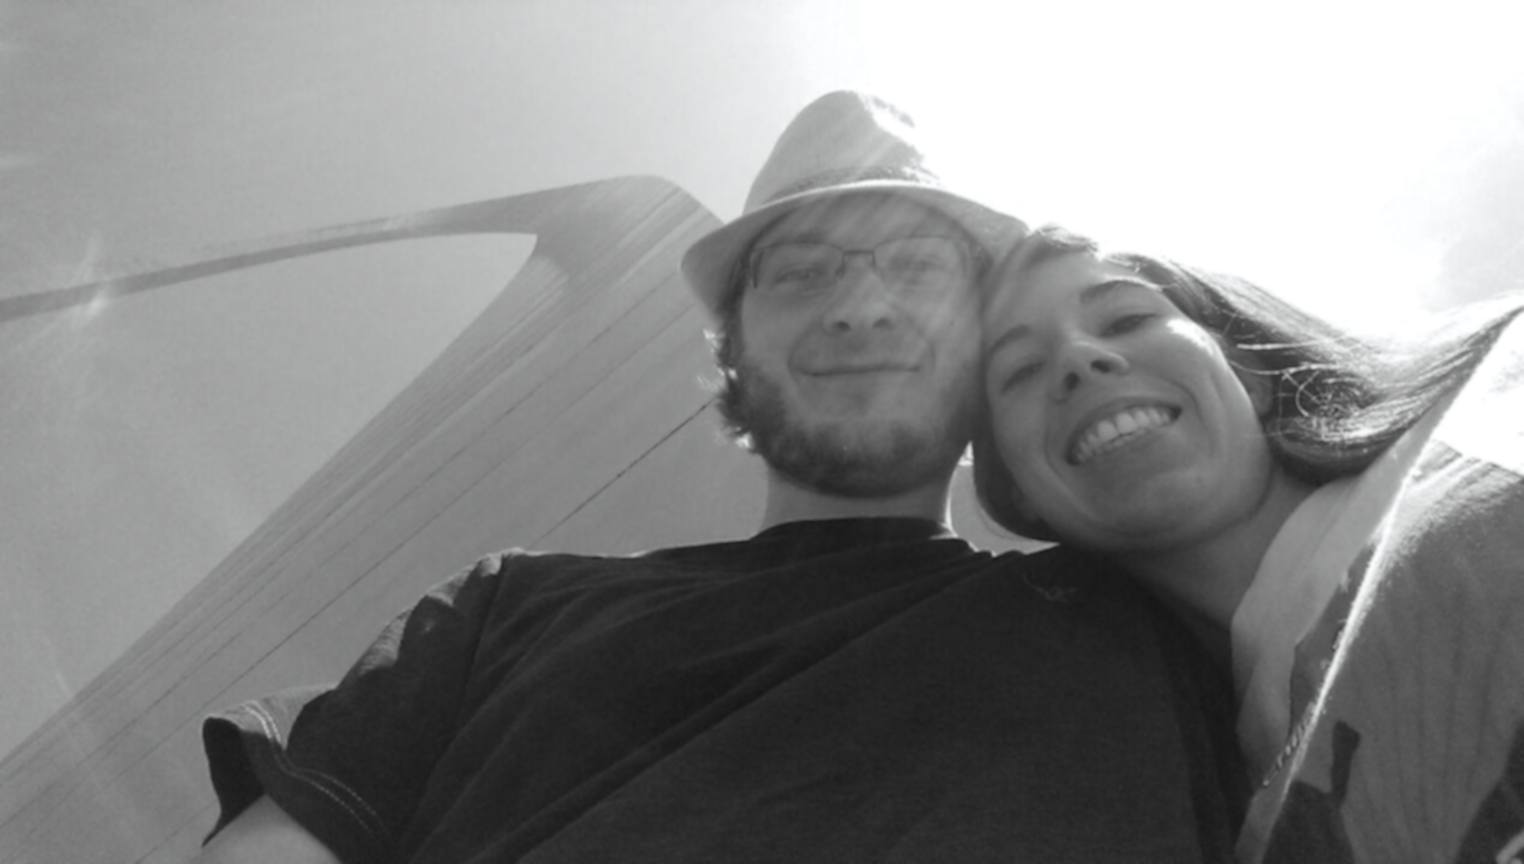
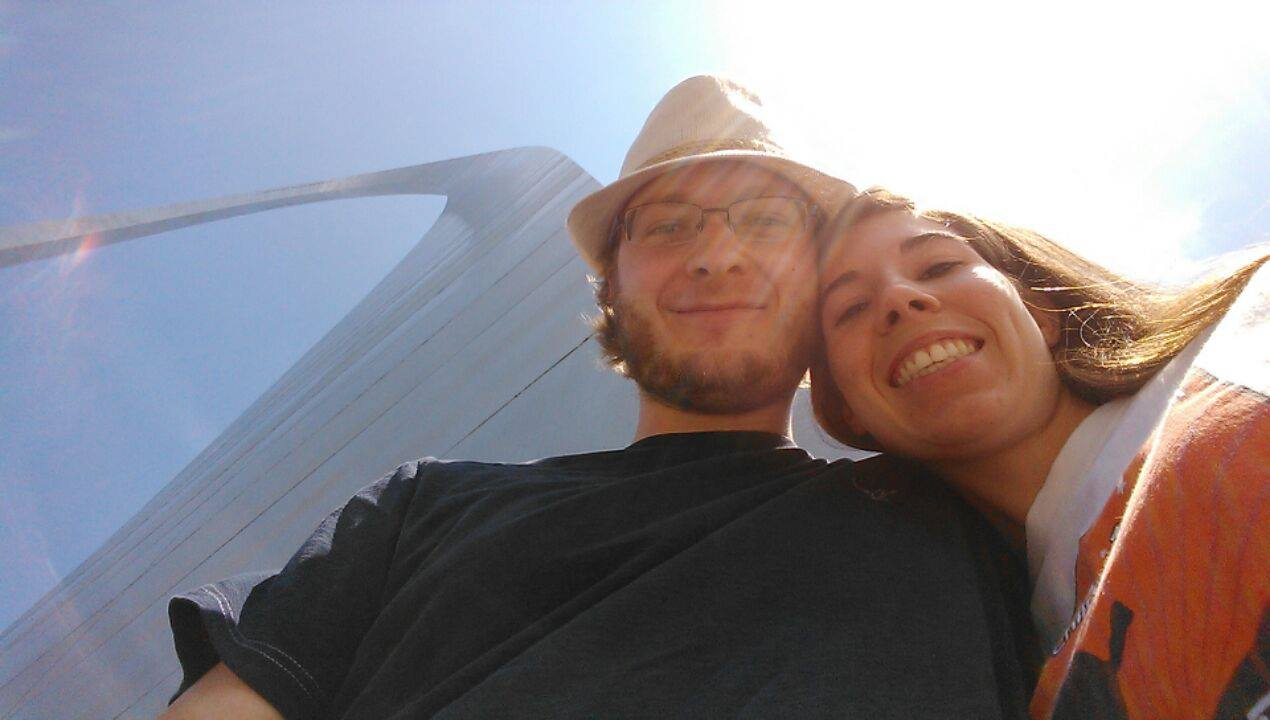
change picture to color

diff --git a/index.html b/index.html
@@ -32,8 +32,8 @@
     <div class="bg"></div>
     <div class="jumbotron">
       <div class="container">
-        <h1 style="color:#7D7D7D" face:"Helvetica"> Nicholas Dalton Smith</h1>
-        <p style="color:#7D7D7D">I love Technology and learning new things. I like knowing about the latest and greatest in all aspects of science and technology. Whether its a new internet technology or new findings from Curiosity I'm interested. This love for technology has pushed me to learn all I can about computers because through them instead of just observing these new technologies I can help create them.</p>
+        <h1 style="color:#D1D1D1" face:"Helvetica"> Nicholas Dalton Smith</h1>
+        <p style="color:#D1D1D1">I love Technology and learning new things. I like knowing about the latest and greatest in all aspects of science and technology. Whether its a new internet technology or new findings from Curiosity I'm interested. This love for technology has pushed me to learn all I can about computers because through them instead of just observing these new technologies I can help create them.</p>
       </div>
     </div>
     <div class="container">
